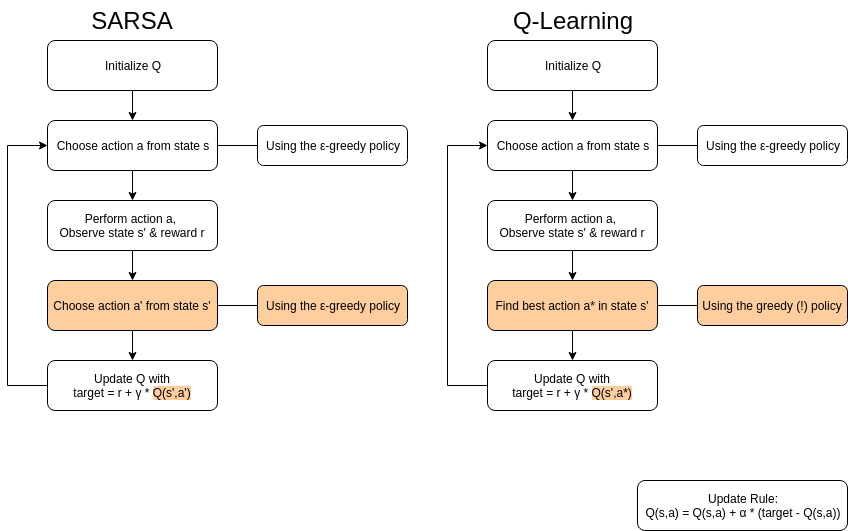
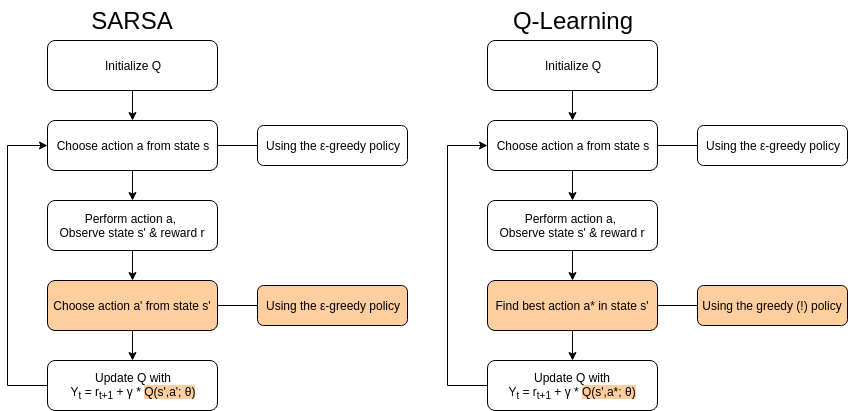
Almost finished methods

diff --git a/Report/methods.tex b/Report/methods.tex
@@ -6,34 +6,33 @@
 \begin{figure}[h]
     \centering
     \includegraphics[width=\linewidth]{img/Simulation.png}
-    \caption{Visual representation of the cellular automaton.}
+    \caption{A visual representation of the environment. The agent is shown in white, leaving behind a trail of inflammable dug cells (shown in brown). The burning cells (red) are heating up the neighbouring cells (yellow) and when the cell runs out of fuel it dies (black)}
     \label{fig:simulation}
 \end{figure}
-The forest fire is simulated using a cellular automaton. For a visual representation please see Figure \ref{fig:simulation}. Its shape is always square and has either a size of 10 or 14 cells. The green cells represent trees and can ignite under the right circumstances.
-The agent (or bulldozer) is represented by the white tile. Wherever it moves it destroys the trees and an empty, inflammable (brown) cell is formed. A line of these dug cells forms a fire line over which the fire cannot spread. The agent has to move each time step, as it is not allowed to idle on the same cell. The agent can only die when it moves into an actively burning (red) cell.
+The forest fire is simulated using a grid of cells, each of which has a number of attributes. The main ones are heat potential, temperature, ignition threshold and fuel. Heat potential is the amount of heat, once ignited, the cell radiates to its neighbours to increase their temperature. As soon as the temperature of a cell reaches the ignition threshold the cell ignites and burns. A burning cell consumes one fuel per iteration, and stops burning and radiating heat when the fuel is empty, becoming a dead cell. The heat from a burning cell reaches the cells directly north, south, east and west of it. If that cell is flammable its temperature is increased by the heat potential of the burning cell, otherwise nothing happens.
 
-\subsubsection{Fire Spread Dynamics}\label{sec:fire_spread}
-When a tree is lit on fire in order to start a forest fire, the cell color switches from green to red in Figure \ref{fig:simulation}. The neighbouring cells start to heat up and switch to yellow. The term neighbouring cells refers to the cells directly north, south, east and west of a burning cell. After some time steps these neighbours reach their ignition thresholds they catch fire themselves. The larger the fire, the more cells are being heated and brought to ignition. This makes larger fires harder to contain. Each tile has a fixed amount of fuel and when it runs out of fuel, the fire dies out. This leaves behind a black burnt tile which cannot be reignited.
-
+For a visual representation please see Figure \ref{fig:simulation}. The shape of the grid is always square and has a size of either 10-by-10 or 14-by-14 cells. The green cells represent trees that can be ignited. The agent (or bulldozer) is represented by the white tile. Wherever it moves it destroys the trees and an empty, inflammable (brown) cell is formed. A line of these dug cells forms a fire line over which the fire cannot spread. Dead cells are represented in black. The agent has to move each time step, it is not allowed to idle on the same cell, and it can only die if it moves into an actively burning (red) cell. The environment reaches a terminal state and restarts if the agent dies, or if there are no more burning cells.
 
 \subsubsection{The Reward function}\label{sec:reward_function}
-The reward function is a function that maps each state to a value that represents how "good" or desirable that state is. As such, this function is a vital part of the learning process because any reinforcement learning algorithm will rely on the two things that constitute the input to the agent. The quality of the state representation, or in other words how much of- and how well the agent sees the environment, and the quality of the reward function, or how well the agents notion of success corresponds with our notion of success and how easy it is to find optima in the reward landscape.
+Any reinforcement learning algorithm will rely on the two things that constitute the input to the agent. The quality of the state representation, or in other words how much of- and how well the agent can perceive the environment, and the quality of the reward function, which defines how well the agents notion of success corresponds with our notion of success how easy it is to find optima in the reward landscape. Because of this, the performance of the agent may depend heavily on the design of the reward function.
 
-Apart from determining the optimal policy to be learned by the agent, the reward function also determines the speed at which the agent will be able to learn that policy. To take the gradient descent analogy of a problem landscape, if the reward function produces a smooth gradient to the optimal solution, the agent will be able to find a path to that solution more easily than if the reward resembles flat landscape with sparse spikes in which the value jumps from almost always 0 or negative to a positive reward \citep{sutton_barto_2018}. In other words, the agent should be provided gradual feedback instead of sparse and delayed rewards in order to facilitate fast and efficient learning.
+The reward function also determines the speed at which the agent will be able to learn that policy. To take the gradient descent analogy of a problem landscape, if the reward function produces a smooth gradient to the optimal solution, the agent will be able to find a path to that solution more easily than if the reward resembles flat landscape with sparse spikes in which the value jumps from almost always 0 or negative to a positive reward \citep{sutton_barto_2018}. In other words, the agent should be provided gradual feedback instead of sparse and delayed rewards in order to facilitate fast and efficient learning. 
 
-Crafting a good reward function for this problem turned out to be quite difficult because it was hard to define a measure of success that is both valid in its formulation and which provides gradual feedback, or a smooth gradient, towards the containment of the fire. We defined the reward function as
-\[
-R = \left\{\begin{array}{lr}
-    1000, & \text{ Fire is contained }\\
-    1000 * (p), & \text{ Fire burns out }\\
-    -1000, & \text{ Agent dies }\\
-    -1 & \text{ Otherwise }
+We defined the reward function as
+\begin{equation}\label{eq:reward_function}
+    R_t = \left\{\begin{array}{lr}
+        1000, & \text{ Fire is contained }\\
+        1000 * (p), & \text{ Fire burns out }\\
+        -1000, & \text{ Agent dies }\\
+        -1 & \text{ Otherwise }
 
-    \end{array}\right\}
-\]
-where~$p$ is the percent of the map undamaged by either fire or digging. We decided to choose a reward function that defines the goal well, and then compensate for the lack of a smooth gradient with demonstration data to lead it towards the sparse rewards. Note that the 2nd and 3rd states are the only terminal states.
+        \end{array}\right\},
+\end{equation}
+where $p$ is the percent of the map undamaged by either fire or digging. Note that this reward function does not produce a smooth gradient, and the performance of the agent will likely suffer as a result.
 
-Containment of the fire is defined in Algorithm \ref{alg:containment}. The algorithm returns true as soon as it can find a path, not allowing diagonal movements, between any burning cell and any cell on the border of the map. If there exists a path, then there exists a way for the fire to spread. It uses the A* path-finding algorithm to check for a path between any two points.
+Containment of the fire is defined in Algorithm \ref{alg:containment}. The algorithm returns true as soon as it can find a path, not allowing diagonal movements, between any burning cell and any cell on the border of the map. If there exists a path, then there exists a way for the fire to spread and so it is not contained. It uses the A* path-finding algorithm to check for a path between any two points.
+
+% equation instead of algorithm? ask marco.
 
 \begin{algorithm}
   \caption{Algorithm to check if the fire is contained}
@@ -66,52 +65,66 @@ Containment of the fire is defined in Algorithm \ref{alg:containment}. The algor
 
 
 \subsubsection{The State Representation}\label{sec:state_rep}
-The state of the environment, or the observation of the environment as it is visible to the agent, consists of 3 matrices of size $N*M$ with a boolean domain resulting in, after flattening, an array of $3 * N*M$ boolean inputs where $(N, M)$ are the dimensions of the map. Assuming the shape of the map is always square, a map size of $N=10$ elements is represented three times: One layer contains only the agent position, translating to a matrix of zeros except for a single one representing the position of the agent. The second layer consists of the position of the fire. Cells that are on fire are represented by a 1, the rest are set to 0. The third layer represents the fire lines cut by the agent in a similar boolean fashion, resulting in a total of 300 inputs to the agent. This is schematically shown in figure \ref{fig:visiongrid}.
+The state of the environment, as it is visible to the agent, consists of 3 matrices of size $N^2$ with a boolean domain resulting in, after flattening, an array of $3 * N^2$ boolean inputs where $N$ is the size of the square map. The environment is thus represented three times: One layer contains only the agent position, translating to a matrix of zeros except for a single one representing the position of the agent. The second layer consists of the position of the fire. Cells that are on fire are represented by a 1, the rest are set to 0. The third layer represents the fire lines cut by the agent in a similar boolean fashion, resulting in a total of 300 inputs to the agent when $N=10$. This is shown graphically in figure \ref{fig:visiongrid}.
 
 \begin{figure}[h]
     \centering
     \includegraphics[width=1\linewidth]{img/Vision_Grid.png}
-    \caption{A vision grid representation of an example state}
+    \caption{A vision grid representation of an example state. Each layer shows an important aspect of the world: Agent position, Fire positions and Fire barrier positions.}
     \label{fig:visiongrid}
 \end{figure}
 
-This vision grid approach can speed up the learning process as well as increase the performance \citep{knegt2018opponent}. Indeed it had a noticeable effect on the performance and learning speed of our implementation compared to a single matrix representing the gray-scaled map as input, likely because the agent can more easily differentiate between different attributes and because only the relevant information is presented. Further, the agent can now see whether the cell it is occupying is already dug or not.
+This vision grid approach can speed up the learning process as well as increase performance \citep{knegt2018opponent}. Indeed it had a noticeable effect on the performance and learning speed of our implementation compared to a single matrix representing the gray-scaled map as input, likely because the agent can more easily differentiate between important attributes due to the boolean domain, and because only the relevant information is presented. Further, the agent can now see whether the cell it is occupying is already dug or not.
 
 
 \subsection{The Agent}\label{sec:agent}
 
+\subsubsection{Code Availability}
+The source code can be accessed at https://github.com/dashdeckers/Wildfire-Control-Python.
 
 \subsubsection{Known Problems with Connectionist RL}\label{sec:problems}
-The combination of function approximation (the neural network), bootstrapping (TD methods that update Q-values using estimated return values) and off-policy training (the Q-Learning algorithm) make up the deadly triad \citep{sutton_barto_2018}, which is known to cause instabilities and even divergence in the learning process. As will be clear by the end of this section, all three of these elements are present in some of the algorithms. There are, however, two well known strategies to reduce this effect and stabilise learning: Using experience replay and a target network \citep{mnih2015human}.
+The combination of function approximation (the neural network), bootstrapping (TD methods that update $Q$-values using estimated return values) and off-policy training (the $Q$-Learning algorithm) make up the deadly triad \citep{sutton_barto_2018}, which is known to cause instabilities and even divergence in the learning process. This is at least partly due to correlations in the sequence of consecutive observations, the fact that even small updates to $Q$ can change the policy and therefore the data distribution, and the correlations between the $Q$-values $Q(s, a)$ and the target values $Y_t = r_{t+1} + \gamma \max_a Q(s_{t+1}, a; \theta_t)$ \citep{mnih2015human}.
+
+As will be clear by the end of this section, all three of these elements are present in some of the algorithms. There are, however, two well known strategies to reduce this effect and stabilise learning: Using experience replay and a target network.
 
 \subsubsection{Network Architecture}\label{sec:architecture}
-First, let us define the neural network architecture that will approximate Q, or the mapping of (State, Action) pairs to quality values. We use only a shallow network with one hidden layer of 50 units using a sigmoidal activation function, and a simple output layer with a linear activation.
+First we define the neural network architecture that will approximate $Q$, or the action-value function. We use only a shallow network with one hidden layer of 50 units using a sigmoidal activation function, and a simple output layer with a linear activation. The network takes as an input a state $s$, consisting of an array of size $3*N^2$, and outputs an array of size 4 corresponding to the $Q$-values of taking any of the 4 possible actions $a$ in that state.
 
 \subsubsection{Experience Replay}\label{sec:exp_replay}
-
 \begin{figure}[h]
     \centering
     \includegraphics[width=1\linewidth]{img/Experience_Replay.png}
     \caption{Schematic structure of experience replay}
     \label{fig:expreplay}
 \end{figure}
+Instead of training the network on incoming experiences $e_t=(s_t,a_t,r_t,s_{t+1})$ at each time step $t$ directly, the experiences can be stored in a memory buffer $B_t=\{e_1,...e_t\}$ and the network can be trained on a mini-batch of memories randomly sampled from this buffer $(s,a,r,s') \sim U(B)$ (see Figure \ref{fig:expreplay}). The buffer $B$ allows for $M$ experiences to be stored until it is full, at which point the oldest memories will be discarded to make room for new ones.
 
-Instead of training the network on incoming experiences directly, the experiences can be stored in a memory buffer and the network can be trained on a mini-batch of memories randomly sampled from this buffer (see figure \ref{fig:expreplay}). This helps because neural networks assume that each training sample is identically and independently distributed with regard to the population the algorithm is set up to approximate (Citation needed), and training directly on incoming experiences break this assumption in two regards.
+This helps because neural networks assume that each training sample is identically and independently distributed from the population, which is in this case the environment that the algorithm is set up to approximate, and training directly on incoming experiences breaks this assumption in two regards.
 
-For one, consecutive incoming experiences are obviously highly correlated because the environment does not radically change after any action (unless it leads to a terminal state). This means that any experience differs from the previous experience only to the extent to which the environment can change in one update step from a single action from the agent. (CITATION NEEDED!)
+% cite the I.I.D assumption
 
-The distribution of incoming experiences is also dependent on the agents current policy. If the current policy determines that the agent should head east, then the next experiences recorded by the agent will involve the agent headed east. Apart from the obvious correlation, this can also lead to feedback loops. (EXPLAIN THE LOOPS AND CITE DQN + OTHER PAPER!)
+For one, consecutive incoming experiences are obviously highly correlated because the environment does not radically change after any action (unless it is a terminal state). This means that any experience differs from the previous experience only to the extent to which the environment can change in one update step from a single action from the agent.
 
-% https://arxiv.org/pdf/1511.05952.pdf
-%(Check out the link for good reasons why experience replay is useful. already in .bib file)
+Secondly, the distribution of incoming experiences is also dependent on the agents current policy. If the current policy determines that the agent should head east, then the next experiences recorded by the agent will involve the agent headed east. Apart from the obvious correlation, this can also lead to feedback loops and the network parameters could get stuck in local optima or even diverge \citep{tsitsiklis1997analysis,mnih2015human}.
 
-% fill out the rest of the references
-
-In addition to stabilising the learning process, this approach also increases sample efficiency by allowing memories to be re-used multiple times until they are discarded when they reach the end of the queue. We can also inject hand-crafted memories into this buffer before learning to provide the agent with demonstration, as will be explained in Section \ref{sec:demo_data}.
+In addition to stabilising the learning process, this approach also increases sample efficiency by allowing memories to be re-used multiple times until they are discarded when they reach the end of the queue. We can also pre-initialize this buffer with memories before learning to provide the agent with demonstration data, as will be explained in Section \ref{sec:demo_data}.
 
 
 \subsubsection{Target Network}\label{sec:target_network}
-Another source of instability is that we use the predictions of the network to generate the target values which, combined with the rest of the update rule (shown in Figure \ref{fig:ql_sarsa}), directly update the weights of that same network. This can lead to unwanted feedback loops. We can add a delay to the loop to reduce these effects by using a periodically updated, frozen copy of the network to generate the target values instead (as shown in Figure \ref{fig:targetnet}). Every C iterations, the target network is replaced by a copy of the main network. This modification is called Double Q-Learning \citep{hasselt2010double}, and was also used by \citep{mnih2015human} to make the algorithm more stable and prevent divergence.
+Another source of instability arises when we use the predictions of the network to generate the target values which directly update the weights of that same network, as in the standard $Q$-learning update
+\begin{equation}\label{eq:update_rule}
+    \theta_{t+1} = \theta_t + \alpha(Y_t - Q(s_t, a_t; \theta_t))\nabla_{\theta_t}Q(s_t, a_t; \theta_t),
+\end{equation}
+where $\alpha$ is the learning rate and the target $Y_t$ is defined as
+\begin{equation}\label{eq:target}
+    Y^{}_t \equiv r_{t+1} + \gamma \max_a Q(s_{t+1}, a; \theta_t).
+\end{equation}
+
+The update rule in \eqref{eq:update_rule} resembles stochastic gradient descent, updating the value $Q(s_t, a_t; \theta_t)$ towards the target value $Y_t$. Using the same network can lead to unwanted feedback loops. A delay to the loop can be added to reduce these effects by using a periodically updated, frozen copy of the network with weights $\theta^-$ to generate the target values instead (as shown schematically in Figure \ref{fig:targetnet})
+\begin{equation}
+    Y^{NEW}_t \equiv r_{t+1} + \gamma \max_a Q(s_{t+1}, a; \theta_t^-),
+\end{equation}
+where every $C$ time steps, the weights of the network are copied into the target network $\theta_t^- = \theta_t$. This modification was also used by \cite{mnih2015human} alongside experience replay to make the algorithm more stable and dramatically increase its performance.
 
 \begin{figure}[h]
     \centering
@@ -122,7 +135,7 @@ Another source of instability is that we use the predictions of the network to g
 
 
 \subsubsection{Q-Learning versus SARSA}\label{sec:ql_sarsa}
-We implemented both Q-learning and SARSA to investigate the difference in performance when using an off-policy versus on-policy algorithm. 
+We implemented both $Q$-learning and SARSA to investigate the difference in performance when using an off-policy versus on-policy algorithm. 
 
 \begin{figure}[h]
     \centering
@@ -131,31 +144,36 @@ We implemented both Q-learning and SARSA to investigate the difference in perfor
     \label{fig:ql_sarsa}
 \end{figure}
 
-In Q-learning, the agent follows the $\epsilon$-greedy policy in which we can vary the degree of exploration by adjusting $\epsilon$, the probability of taking a random action as opposed to the best action according to Q. This parameter allows for the exploration rate to start off with a high value such as 1, which causes the agent to choose only random actions, and then slowly decay over time to allow the agent to exploit its knowledge about the environment. At the same, Q is updated in a way that optimizes the greedy policy (see figure \ref{fig:ql_sarsa}). This is an off-policy algorithm.
+% show both update rules as equations
+% make equations for both policies
+% listen to proofread comments
 
-In contrast, SARSA optimizes the same $\epsilon$-greedy policy that it is following. This makes it an on-policy algorithm and should see an increase in learning stability due to one less element of the deadly triad present in the system. Because SARSA updates Q in a way that takes into account the random actions the agent sometimes takes it is expected to find a safer, but less optimal policy \citep{sutton_barto_2018} and report a higher average performance during learning.
+In $Q$-learning, the agent follows the $\epsilon$-greedy policy in which we can vary the degree of exploration by adjusting $\epsilon$, the probability of taking a random action as opposed to the best action according to $Q$. This parameter allows for the exploration rate to start off with a high value such as 1, which causes the agent to choose only random actions, and then slowly decay over time to allow the agent to exploit its knowledge about the environment. At the same, $Q$ is updated in a way that optimizes the greedy policy (see figure \ref{fig:ql_sarsa}). This is an off-policy algorithm.
+
+In contrast, SARSA optimizes the same $\epsilon$-greedy policy that it is following. This makes it an on-policy algorithm and should see an increase in learning stability due to one less element of the deadly triad present in the system. Because SARSA updates $Q$ in a way that takes into account the random actions the agent sometimes takes it is expected to find a safer, but less optimal policy \citep{sutton_barto_2018} and report a higher average performance during learning.
 
 
 
 \subsubsection{Dueling Networks}\label{sec:dueling}
-One limitation of the Q-Network approach is that it is not able to estimate the value of a state and the action separately \citep{wang2015dueling}. This ability can be very useful, since often in states an action has no relevant consequence. The Dueling Network Architecture achieves this by having two streams each predicting different things, instead of one stream predicting both. It is implemented by configuring two hidden layers in parallel, replacing the single hidden layer that is standard in the Q-Network. One of these two layers will estimate the state value $V$, while the other layer will estimate the action advantages $A$ for all possible actions. The two are merged together according to Equation \eqref{eq:dueling}. This equation differs from the original paper, since here we do not use any convolutional layers.
-%$$ Q = value + (advantage - mean(advantage))$$
+One limitation of the $Q$-Network approach is that it is not able to estimate the value of a state and the action separately \citep{wang2015dueling}. This ability can be very useful, since often in states an action has no relevant consequence. The Dueling Network Architecture achieves this by having two streams each predicting different things, instead of one stream predicting both. It is implemented by configuring two hidden layers in parallel, replacing the single hidden layer that is standard in the Q-Network. One of these two layers will estimate the state value $V$, while the other layer will estimate the action advantages $A$ for all possible actions. The two are merged together according to Equation \eqref{eq:dueling}. This equation differs from the original paper, since here we do not use any convolutional layers.
+
 \begin{equation} \label{eq:dueling}
   \begin{array}{l}
     Q(s,a; \alpha, \beta) = V(s; \beta) + \\ 
     \Big(A(s, a; \alpha) - \frac{1}{c} \sum\limits_{a'} A(s,a'; \alpha)\Big)
   \end{array}
 \end{equation}
-Here $\alpha$ and $\beta$ denote the two fully connected layers and $c$ the number of action advantages. This equation automatically prevents the layer for the state value from estimating anything related to the action advantages, since the sum of the advantages is kept at zero. The equation results in the Q-values which can be used in the same way as the single stream Q-values. All learning techniques and code can be recycled. Given the results from the original paper, this modification is expected to boost the maximum performance and especially the speed of learning. 
+
+Here, $\alpha$ and $\beta$ denote the two fully connected layers and $c$ the number of action advantages. This equation automatically prevents the layer for the state value from estimating anything related to the action advantages, since the sum of the advantages is kept at zero. The equation results in the $Q$-values which can be used in the same way as the single stream Q-values. All learning techniques and code can be recycled. Given the results from the original paper, this modification is expected to boost the maximum performance and especially the speed of learning. 
 
 
 
 \subsubsection{Demonstration Data}\label{sec:demo_data}
-Because the reward function defined in Section \ref{sec:reward_function} provides only sparse and delayed rewards, the agent might require additional guidance to learn to contain the fire in a reasonable training time. To point it in the right direction, we can fill the memory buffer with demonstration data before learning as mentioned in Section \ref{sec:exp_replay}. The agent can then use these memories during the learning process to "see" a possible way to reach the sparse reward.
+Because the reward function defined in Section \ref{sec:reward_function} provides only sparse and delayed rewards, the agent might require additional guidance to learn to contain the fire in a reasonable training time. To point it in the right direction, we can fill the memory buffer with demonstration data before learning as mentioned in Section \ref{sec:exp_replay}. The agent can then use these memories during the learning process to its advantage.
 
 The demonstration data only needs to show the agent how it might be able to collect the containment reward, to this effect we developed a simple algorithm that moves the agent around the fire in a clockwise direction by choosing randomly from one of two possible actions depending on the position of the agent relative to the fire (shown schematically in Figure \ref{fig:demodata}). 
 
-The environment is reset upon containment (as defined in the Algorithm \ref{alg:containment}), and if the agent would make a move that would lead to its death, it chooses the other possible action. Only memories leading to successful containments are kept. This results in an average of 35 demonstration data memories per containment of the fire on the 10x10 map, and around 48 memories on the 14x14 map. The number of successful containments per episodes required can be specified.
+The environment is reset upon containment (as defined in Algorithm \ref{alg:containment}), and if the agent chooses an action that would lead to its death, it chooses the other possible action instead. Only memories leading to successful containments are stored. This results in an average of 35 demonstration data memories per containment of the fire on the 10x10 map, and around 48 memories on the 14x14 map. The number of successful containments per episodes required can be specified.
 
 \begin{figure}[h]
     \centering
@@ -169,7 +187,7 @@ The environment is reset upon containment (as defined in the Algorithm \ref{alg:
 \subsection{The Experimental Setup}\label{sec:experiment}
 
 \subsubsection{Baseline Algorithm}\label{sec:baseline}
-To be able to reliably compare the performance of the different algorithms, we need a stable baseline. We build on the ideas discussed in Section \ref{sec:demo_data} to define the algorithm shown in Algorithm \ref{alg:baseline}. This algorithm is identical to the demonstration data generation except that it continues until the fire has burnt out, and does not stop as soon as the fire is contained.
+To be able to reliably compare the performance of the different algorithms, we need a stable baseline. We build on the ideas discussed in Section \ref{sec:demo_data} to define the algorithm shown in \ref{alg:baseline}. This algorithm is identical to the demonstration data generation except that it continues until the fire has burnt out, it does not stop as soon as the fire is contained.
 
 \begin{algorithm}
   \caption{Baseline algorithm to contain the fire}
@@ -193,4 +211,4 @@ To be able to reliably compare the performance of the different algorithms, we n
 \subsubsection{Collection of Results}\label{sec:datacollection}
 We investigate the performance of both Q-Learning and SARSA, both with and without the dueling network architecture modification for a total of 4 different algorithms.
 
-Each algorithm and parameter combination was run 10 times for 10,000 episodes per run. We compared the baseline performance to 2 map sizes (10x10 and 14x14), 3 different amounts of demonstration data (0, 100 and 1000 episodes) and 4 algorithms for a total of 240 runs (260 including the baselines). Since each run took more than 6 hours on average, they were calculated on the Peregrine computing cluster provided by the University of Groningen.
+Each algorithm and parameter combination was run 10 times for 10,000 episodes per run. We compared the baseline performance to 2 map sizes ($N=10$ and $N=14$), 3 different amounts of demonstration data (0, 100 and 1000 episodes) and 4 algorithms for a total of 240 runs (260 including the baselines). Since each run took approximately 4.5 hours on average, they were calculated on the Peregrine computing cluster provided by the University of Groningen.
